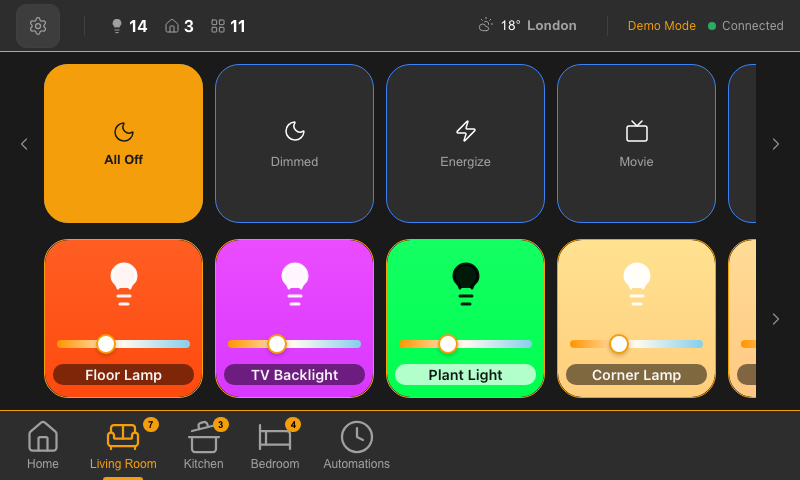
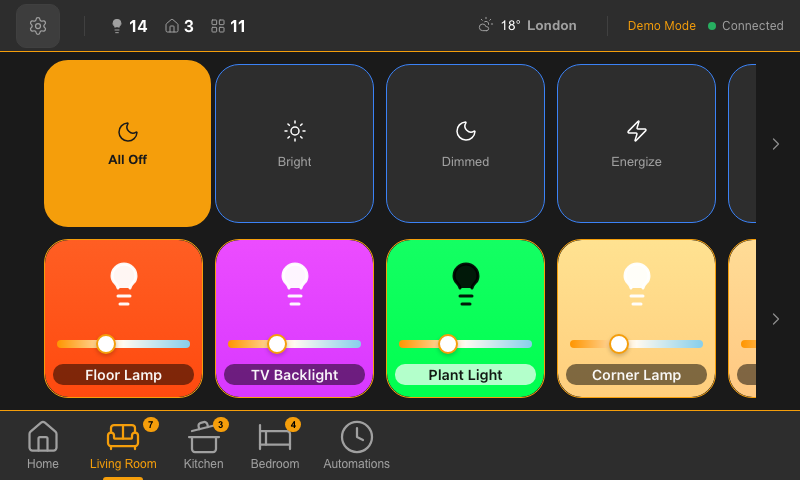
Fix All Off tile positioning - place outside scroll container
Move All Off tile between left chevron and scrollable scenes area
instead of using sticky positioning inside the scroll container.
This prevents the awkward overlap when scrolling.

Layout: < [All Off fixed] [scrollable scenes...] >

🤖 Generated with [Claude Code](https://claude.com/claude-code)

diff --git a/frontend/src/components/Dashboard/RoomContent.test.jsx b/frontend/src/components/Dashboard/RoomContent.test.jsx
@@ -87,19 +87,19 @@ describe('RoomContent', () => {
       expect(rows[1]).toHaveClass('lights-row');
     });
 
-    it('should render All On/Off tile INSIDE scenes carousel with sticky class', () => {
+    it('should render All On/Off tile in carousel container with fixed class', () => {
       const { container } = render(<RoomContent {...defaultProps} />);
-      const scenesCarousel = container.querySelector('.scenes-row .tiles-carousel');
-      // All On/Off should be inside carousel with sticky-tile class
-      const allOnOffTile = scenesCarousel.querySelector('.all-on-off-tile.sticky-tile');
+      const carouselContainer = container.querySelector('.scenes-row .tiles-carousel-container');
+      // All On/Off should be in carousel container with carousel-fixed-tile class
+      const allOnOffTile = carouselContainer.querySelector('.all-on-off-tile.carousel-fixed-tile');
       expect(allOnOffTile).toBeInTheDocument();
     });
 
-    it('should render All On/Off tile as first item in scenes carousel', () => {
+    it('should render All On/Off tile before scenes carousel (not inside it)', () => {
       const { container } = render(<RoomContent {...defaultProps} />);
       const scenesCarousel = container.querySelector('.scenes-row .tiles-carousel');
-      const firstChild = scenesCarousel.firstElementChild;
-      expect(firstChild).toHaveClass('all-on-off-tile');
+      const allOnOffInCarousel = scenesCarousel.querySelector('.all-on-off-tile');
+      expect(allOnOffInCarousel).toBeNull();
     });
 
     it('should render scenes inside tiles-carousel', () => {
@@ -116,11 +116,11 @@ describe('RoomContent', () => {
       expect(lightTiles).toHaveLength(2);
     });
 
-    it('should render All On/Off tile in scenes carousel even when no scenes', () => {
+    it('should render All On/Off tile in scenes row even when no scenes', () => {
       const roomNoScenes = { ...mockRoom, scenes: [] };
       const { container } = render(<RoomContent {...defaultProps} room={roomNoScenes} />);
-      const scenesCarousel = container.querySelector('.scenes-row .tiles-carousel');
-      const allOnOffTile = scenesCarousel.querySelector('.all-on-off-tile');
+      const scenesRow = container.querySelector('.scenes-row');
+      const allOnOffTile = scenesRow.querySelector('.all-on-off-tile');
       expect(allOnOffTile).toBeInTheDocument();
     });
   });

diff --git a/frontend/src/components/Dashboard/RoomContent.jsx b/frontend/src/components/Dashboard/RoomContent.jsx
@@ -173,7 +173,7 @@ export const RoomContent = ({
 
   return (
     <div className="room-content room-content-carousel">
-      {/* Row 1: Scenes carousel with sticky All On/Off */}
+      {/* Row 1: All On/Off fixed + Scenes carousel */}
       <div className="room-row scenes-row">
         <div className="tiles-carousel-container">
           <button
@@ -185,14 +185,15 @@ export const RoomContent = ({
             <ChevronLeft size={20} />
           </button>
 
+          <AllOnOffTile
+            anyOn={anyOn}
+            onToggle={onToggleRoom}
+            roomId={room.id}
+            isToggling={isActivatingScene}
+            className="carousel-fixed-tile"
+          />
+
           <div className="tiles-carousel scenes-carousel" ref={setScenesRef}>
-            <AllOnOffTile
-              anyOn={anyOn}
-              onToggle={onToggleRoom}
-              roomId={room.id}
-              isToggling={isActivatingScene}
-              className="sticky-tile"
-            />
             {scenes.map((scene) => (
               <SceneTile
                 key={scene.id}

diff --git a/frontend/src/components/Dashboard/RoomContent.layout.test.jsx b/frontend/src/components/Dashboard/RoomContent.layout.test.jsx
@@ -97,12 +97,12 @@ describe('RoomContent Layout', () => {
       expect(tiles.length).toBe(8);
     });
 
-    it('should render All On/Off tile inside carousel with sticky class', () => {
+    it('should render All On/Off tile in carousel container with fixed class', () => {
       render(<RoomContent {...defaultProps} />);
 
-      const scenesCarousel = document.querySelector('.scenes-row .tiles-carousel');
-      // All On/Off should be inside carousel with sticky-tile class
-      const allOnOffTile = scenesCarousel.querySelector('.all-on-off-tile.sticky-tile');
+      const carouselContainer = document.querySelector('.scenes-row .tiles-carousel-container');
+      // All On/Off should be in container with carousel-fixed-tile class
+      const allOnOffTile = carouselContainer.querySelector('.all-on-off-tile.carousel-fixed-tile');
       expect(allOnOffTile).toBeInTheDocument();
     });
 

diff --git a/frontend/src/App.css b/frontend/src/App.css
@@ -1989,26 +1989,11 @@ body.dark-theme {
   min-height: unset !important;
 }
 
-/* Sticky tile stays fixed while others scroll */
-.sticky-tile {
-  position: sticky;
-  left: 0;
-  z-index: 5;
-  /* Add padding-right that matches the gap so tiles don't overlap */
-  margin-right: 0;
-  /* Background extends to cover scrolling content behind */
-  background-clip: padding-box;
-}
-
-/* Add pseudo-element to cover the gap area */
-.sticky-tile::after {
-  content: '';
-  position: absolute;
-  top: 0;
-  right: -12px;
-  width: 12px;
+/* Fixed tile in carousel row - sits between chevron and scrollable area */
+.carousel-fixed-tile {
+  flex: 0 0 auto;
   height: 100%;
-  background: var(--bg-primary);
+  aspect-ratio: 1;
 }
 
 .room-header-bar {
